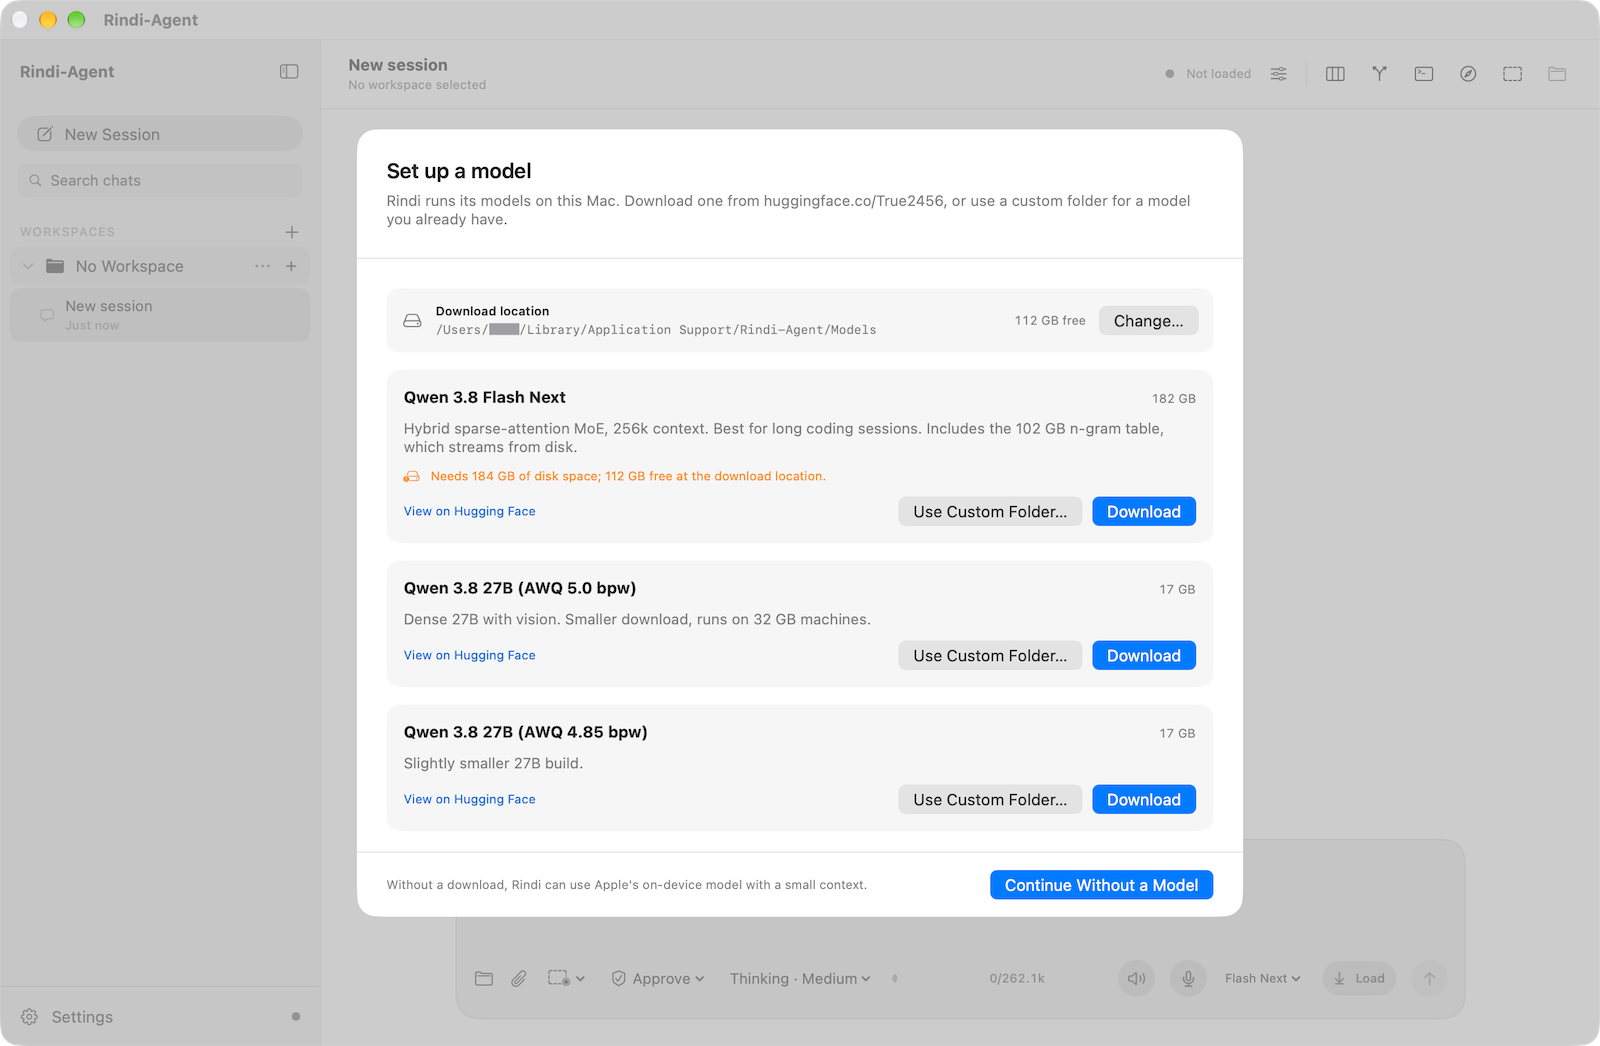
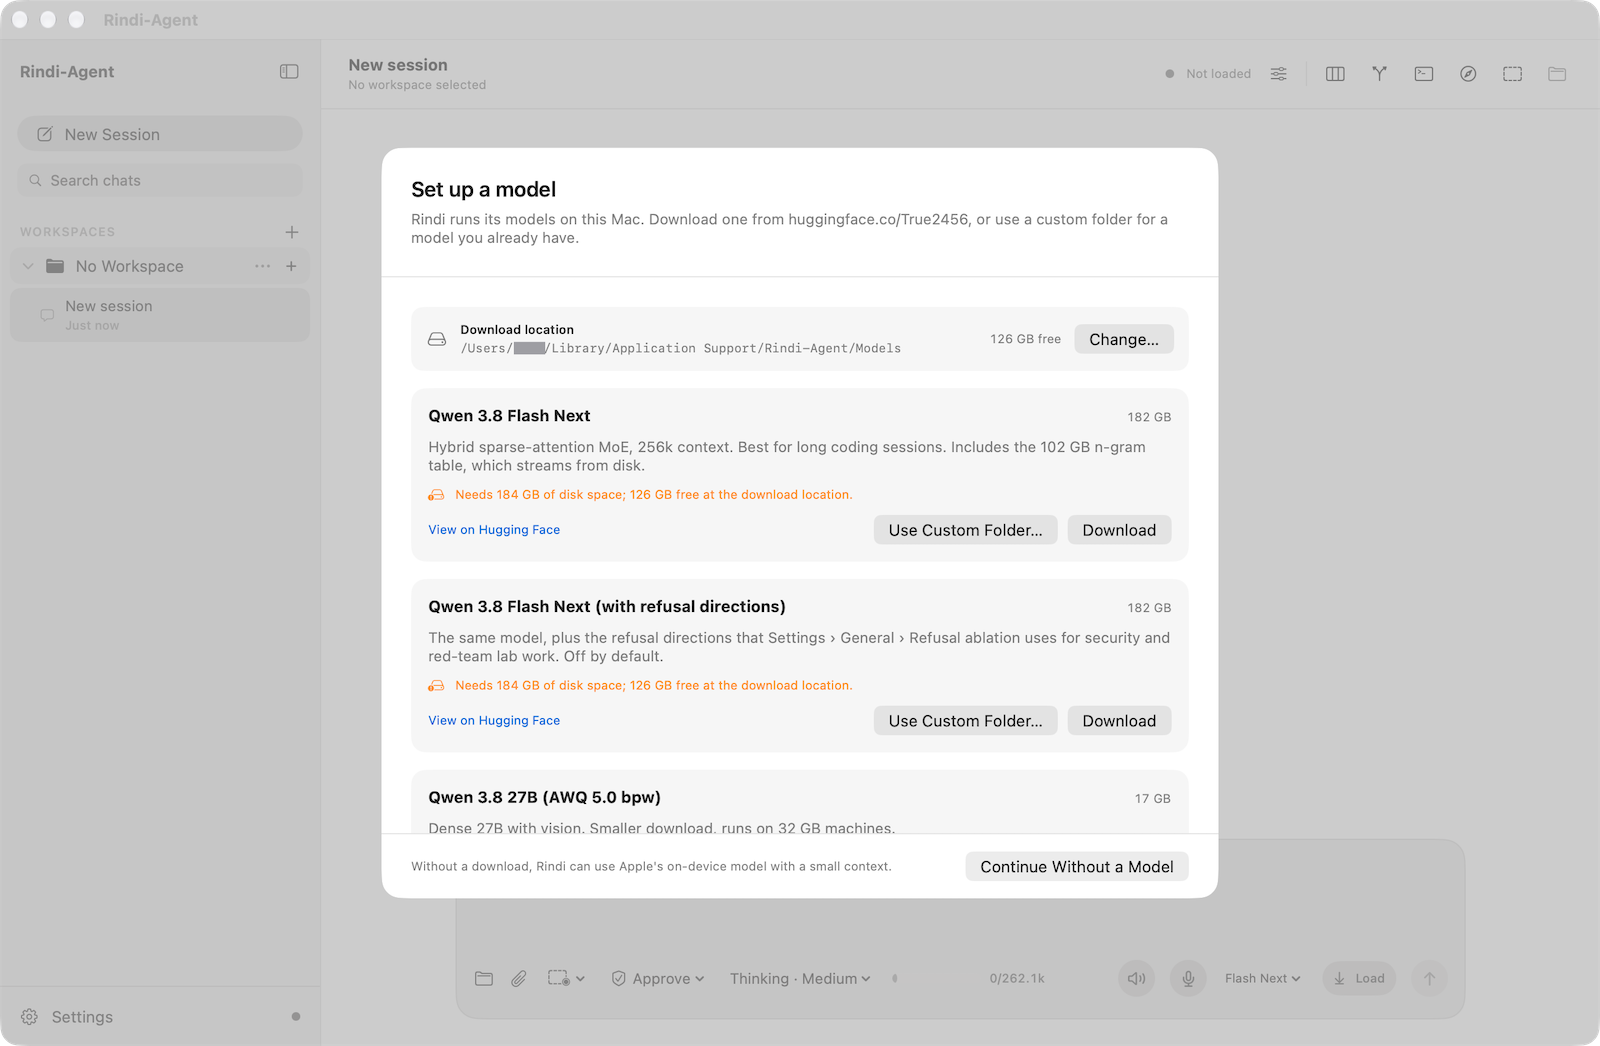
Rindi-Agent 0.9.1: update feed, benchmarks, release notes, and the wiki generator
appcast.xml is the Sparkle feed that 0.9.1 and later check. BENCHMARKS.md
reports Flash Next speed over a real 40-turn session to 180k tokens, with the
per-turn data in benchmarks/. scripts/build-wiki.py builds the wiki from the
user guide, BENCHMARKS.md and CHANGELOG.md.

diff --git a/scripts/build-wiki.py b/scripts/build-wiki.py
@@ -1,0 +1,103 @@
+#!/usr/bin/env python3
+"""Builds the GitHub wiki from the files in this repository.
+
+docs/USER-GUIDE.md stays the single source: each "## N. Title" section becomes
+a wiki page, and BENCHMARKS.md and CHANGELOG.md become pages of their own.
+Image paths and links between sections are rewritten for the wiki.
+
+    scripts/build-wiki.py <wiki checkout>
+
+then commit and push the wiki checkout.
+"""
+import re
+import sys
+from pathlib import Path
+
+REPO = "True2456/Rindi-Agent-releases"
+RAW = f"https://raw.githubusercontent.com/{REPO}/main"
+BLOB = f"https://github.com/{REPO}/blob/main"
+root = Path(__file__).resolve().parent.parent
+out = Path(sys.argv[1])
+
+
+def anchor(heading: str) -> str:
+    """GitHub's heading anchor: lowercase, punctuation dropped, spaces to hyphens."""
+    text = re.sub(r"[^\w\- ]", "", heading.strip().lower())
+    return text.replace(" ", "-")
+
+
+def page_name(title: str) -> str:
+    return re.sub(r"[^\w]+", "-", title).strip("-")
+
+
+guide = (root / "docs/USER-GUIDE.md").read_text()
+intro, *sections = re.split(r"(?m)^## (?=\d+\. )", guide)
+
+pages = []          # (file name, title, body)
+anchors = {         # guide anchor -> wiki link target
+    "reporting-problems": f"https://github.com/{REPO}/issues",  # a README heading
+}
+for section in sections:
+    heading, body = section.split("\n", 1)
+    title = re.sub(r"^\d+\.\s*", "", heading).strip()
+    name = page_name(title)
+    anchors[anchor(heading)] = name
+    for sub in re.findall(r"(?m)^#{3,4} (.+)$", body):
+        anchors[anchor(sub)] = f"{name}#{anchor(sub)}"
+    body = re.sub(r"(?m)^---\s*$", "", body).strip()
+    body = re.sub(r"(?m)^###", "##", body)
+    pages.append((name, title, body))
+
+
+def rewrite(text: str) -> str:
+    text = re.sub(r"\]\((?:docs/)?images/", f"]({RAW}/docs/images/", text)
+    text = re.sub(r"\]\(#([\w\-]+)\)", lambda m: f"]({anchors.get(m[1], '#' + m[1])})", text)
+    text = re.sub(r"\]\((?:docs/)?USER-GUIDE\.md#([\w\-]+)\)", lambda m: f"]({anchors.get(m[1], 'Home')})", text)
+    text = re.sub(r"\]\((?:docs/)?USER-GUIDE\.md\)", "](Home)", text)
+    text = text.replace("](BENCHMARKS.md)", "](Benchmarks)").replace("](CHANGELOG.md)", "](Release-notes)")
+    text = re.sub(r"\]\((benchmarks/[^)]+)\)", lambda m: f"]({BLOB}/{m[1]})", text)
+    return text
+
+
+out.mkdir(parents=True, exist_ok=True)
+for old in out.glob("*.md"):
+    old.unlink()
+
+for name, title, body in pages:
+    (out / f"{name}.md").write_text(rewrite(body) + "\n")
+
+for source, name in (("BENCHMARKS.md", "Benchmarks"), ("CHANGELOG.md", "Release-notes")):
+    text = (root / source).read_text()
+    text = re.sub(r"\A# .+\n+", "", text)          # the wiki shows the page name as its title
+    (out / f"{name}.md").write_text(rewrite(text))
+
+readme = (root / "README.md").read_text()
+summary = readme.split("\n## ", 1)[0]
+summary = re.sub(r"\A# .+\n+", "", summary)
+contents = "\n".join(f"{i}. [{title}]({name})" for i, (name, title, _) in enumerate(pages, 1))
+(out / "Home.md").write_text(rewrite(summary).strip() + f"""
+
+**[Download the latest version](https://github.com/{REPO}/releases)** · [Benchmarks](Benchmarks) · [Release notes](Release-notes) · [Report a problem](https://github.com/{REPO}/issues)
+
+## User guide
+
+{contents}
+""")
+
+sidebar = "\n".join(f"- [{title}]({name})" for name, title, _ in pages)
+(out / "_Sidebar.md").write_text(f"""**[Home](Home)**
+
+**User guide**
+
+{sidebar}
+
+**More**
+
+- [Benchmarks](Benchmarks)
+- [Release notes](Release-notes)
+- [Downloads](https://github.com/{REPO}/releases)
+""")
+(out / "_Footer.md").write_text(
+    f"Generated from [docs/USER-GUIDE.md]({BLOB}/docs/USER-GUIDE.md) by `scripts/build-wiki.py`. "
+    "Edit the files in the repository, not these pages.\n")
+print(f"{len(pages) + 3} pages written to {out}")

diff --git a/docs/USER-GUIDE.md b/docs/USER-GUIDE.md
@@ -1,6 +1,6 @@
 # Rindi-Agent User Guide
 
-This guide covers Rindi-Agent 0.9.0 beta. Every screenshot comes from a real session on a small example project, `todo-cli`.
+This guide covers Rindi-Agent 0.9.1 beta. Every screenshot comes from a real session on a small example project, `todo-cli`.
 
 - [1. Install and set up a model](#1-install-and-set-up-a-model)
 - [2. Workspaces and sessions](#2-workspaces-and-sessions)
@@ -13,6 +13,7 @@ This guide covers Rindi-Agent 0.9.0 beta. Every screenshot comes from a real ses
 - [9. Keyboard shortcuts and slash commands](#9-keyboard-shortcuts-and-slash-commands)
 - [10. Where your data lives](#10-where-your-data-lives)
 - [11. Troubleshooting](#11-troubleshooting)
+- [12. Updating](#12-updating)
 
 ---
 
@@ -20,7 +21,7 @@ This guide covers Rindi-Agent 0.9.0 beta. Every screenshot comes from a real ses
 
 ### Install the app
 
-1. Download `Rindi-Agent-0.9.0.dmg` from the [releases page](https://github.com/True2456/Rindi-Agent-releases/releases).
+1. Download `Rindi-Agent-0.9.1.dmg` from the [releases page](https://github.com/True2456/Rindi-Agent-releases/releases).
 2. Open the disk image and drag **Rindi-Agent** onto the **Applications** shortcut.
 3. Eject the disk image and open Rindi-Agent from Applications.
 
@@ -30,16 +31,17 @@ Rindi-Agent is signed and notarized by Apple. The first time you open it, macOS 
 
 On first launch, **Set up a model** opens.
 
-![The Set up a model window, listing Qwen 3.8 Flash Next and two Qwen 3.8 27B builds with Download and Use Custom Folder buttons](images/01-model-setup.png)
+![The Set up a model window, listing Qwen 3.8 Flash Next, Flash Next with refusal directions, and the 27B builds below, each with Download and Use Custom Folder buttons](images/01-model-setup.png)
 
 | Model | Download | Unified memory | Choose it when |
 | --- | --- | --- | --- |
 | Qwen 3.8 Flash Next | 182 GB | 128 GB | You have 128 GB or more and want long sessions (up to 256k tokens) |
 | Qwen 3.8 27B (AWQ 5.0 bpw) | 17 GB | 32 GB | You have 32–96 GB, or want images and video in prompts |
 | Qwen 3.8 27B (AWQ 4.85 bpw) | 17 GB | 32 GB | You want a slightly smaller 27B |
+| Qwen 3.8 Flash Next (with refusal directions) | 182 GB | 128 GB | You want the optional [Refusal ablation](#refusal-ablation) setting. Same weights as Flash Next |
 
 - **Download** fetches the model from Hugging Face into the **Download location** shown at the top. Use **Change…** to put models on another drive. A download resumes after an interruption, every file is checked against its published checksum, and the model only counts as installed once the whole download is complete.
-- The window checks free space first. In the screenshot, the Mac has 112 GB free, so Flash Next (which needs 184 GB) shows a warning.
+- The window checks free space first. In the screenshot, the Mac has 126 GB free, so both Flash Next downloads (which need 184 GB) show a warning. Scroll down for the 27B models.
 - **Use Custom Folder…** points Rindi-Agent at a copy of the model you already have.
 - **Continue Without a Model** uses Apple's on-device model, which is good for short questions but has a small context.
 
@@ -226,7 +228,7 @@ Open **Settings** with ⌘, or the button at the bottom of the sidebar. Use the 
 
 | Page | What's there |
 | --- | --- |
-| **General** | Default thinking effort, showing reasoning, background notifications, appearance, and how many worker agents run in parallel |
+| **General** | Default thinking effort, showing reasoning, background notifications, [refusal ablation](#refusal-ablation), appearance, and how many worker agents run in parallel |
 | **Models** | Each model's folder, context length, maximum output, and speed options; **Model Setup…** |
 | **Performance** | Automatic compaction of long chats, how many recent conversations stay in memory, the SSD conversation cache, and the GPU buffer pool |
 | **Instructions** | Your global instructions file and installed skills |
@@ -234,11 +236,21 @@ Open **Settings** with ⌘, or the button at the bottom of the sidebar. Use the 
 | **Voice** | Reading replies aloud: voice, rate and volume |
 | **MCP Servers** | Model Context Protocol servers |
 | **Logs** | The runtime log, with **Copy**, **Show Log File** and **Clear** |
-| **About** | Version, memory, data folder, runtime log, and **Reset…** |
+| **About** | Version, memory, [updates](#12-updating), data folder, runtime log, and **Reset…** |
 
 ![Settings › Models, showing the folder, context length and options for the 27B model](images/06-settings-models.png)
 
 **About › Reset…** returns every setting to its default. Models, chats and workspaces are kept.
+
+### Refusal ablation
+
+**Settings › General › Refusal ablation** loosens the model's refusals, for security and red-team lab work where the stock model declines legitimate requests. It works only with **Qwen 3.8 Flash Next (with refusal directions)** from Model Setup. With the other models the slider has no effect.
+
+- At **0** (Off, the default), the model behaves exactly like the stock one.
+- Around **1–2**, over-eager refusals are loosened.
+- Higher values remove refusals broadly, and replies become less coherent.
+
+Nothing is changed in the model files. The setting applies while the model runs, and you can change it or turn it off at any time. Your agent mode and approvals work the same at every setting.
 
 ---
 
@@ -302,11 +314,12 @@ MCP tools are offered in the main chat (not to worker agents) and follow the sam
 | `~/Library/Caches/Rindi-Agent/PromptCache` | Saved conversation caches (size set in Settings › Performance) |
 | `~/Library/Logs/Rindi-Agent/runtime.log` | Runtime log |
 | `~/.rindi` | Global instructions and skills |
+| `~/Library/Caches/com.rindi.agent` | Downloaded updates waiting to be installed |
 
 ### Uninstall
 
 1. Quit Rindi-Agent and drag it from Applications to the Trash.
-2. To remove your data as well, delete the four locations above. The first one includes downloaded models, which can be very large.
+2. To remove your data as well, delete the locations above. The first one includes downloaded models, which can be very large.
 3. To remove its macOS permissions, including those of the Computer Use helper, run:
 
    ```bash
@@ -330,3 +343,21 @@ MCP tools are offered in the main chat (not to worker agents) and follow the sam
 **A command fails with a sandbox error.** By default, commands can write only inside the workspace. If the task really needs more, change **Workspace sandbox** in **Settings › Tools & Permissions**.
 
 **Something else went wrong.** Open an [issue](https://github.com/True2456/Rindi-Agent-releases/issues) and include the runtime log (**Settings › About › Runtime log › Reveal**). Check the log for anything private first: it can include file names from your projects.
+
+---
+
+## 12. Updating
+
+Rindi-Agent 0.9.1 and later keep themselves up to date. Once a day, the app checks this project's update feed on GitHub. When a new version is out, a window shows what changed:
+
+- **Install Update** downloads it, checks that it's signed by the developer, and offers **Install and Relaunch**.
+- **Remind Me Later** asks again at the next check. **Skip This Version** waits for the one after.
+- **Automatically download and install updates in the future** installs updates without asking.
+
+To check now, choose **Rindi-Agent › Check for Updates…**, or use the button in **Settings › About**. You can also turn automatic checks off there:
+
+![The Updates section of Settings › About, with Check for updates automatically turned on and a Check for Updates button](images/15-settings-updates.png)
+
+An update keeps your settings, chats, models and macOS permissions. If a reply is still running when you choose **Install and Relaunch**, Rindi-Agent asks before stopping it.
+
+**Coming from 0.9.0?** That version can't update itself. Download 0.9.1 once from the [releases page](https://github.com/True2456/Rindi-Agent-releases/releases) and replace the app in Applications.

diff --git a/README.md b/README.md
@@ -8,15 +8,15 @@ Rindi-Agent is a coding agent for the Mac that runs Qwen 3.8 models entirely on 
 
 ## Download
 
-**[Download Rindi-Agent 0.9.0 beta](https://github.com/True2456/Rindi-Agent-releases/releases/tag/v0.9.0-beta)**: a 54 MB disk image, signed and notarized by Apple. The model is downloaded separately the first time you open the app.
+**[Download Rindi-Agent 0.9.1 beta](https://github.com/True2456/Rindi-Agent-releases/releases/tag/v0.9.1-beta)**: a 55 MB disk image, signed and notarized by Apple. The model is downloaded separately the first time you open the app. Starting with 0.9.1, Rindi-Agent updates itself.
 
 To check the download, put the `.dmg` and its `.sha256` file in the same folder and run:
 
 ```bash
-shasum -a 256 -c Rindi-Agent-0.9.0.dmg.sha256
+shasum -a 256 -c Rindi-Agent-0.9.1.dmg.sha256
 ```
 
-It prints `Rindi-Agent-0.9.0.dmg: OK` when the file is intact.
+It prints `Rindi-Agent-0.9.1.dmg: OK` when the file is intact.
 
 ## Requirements
 
@@ -29,16 +29,18 @@ It prints `Rindi-Agent-0.9.0.dmg: OK` when the file is intact.
   | Qwen 3.8 27B (AWQ 5.0 bpw) | 17 GB | 32 GB | Smaller Macs; text, images and video |
   | Qwen 3.8 27B (AWQ 4.85 bpw) | 17 GB | 32 GB | A slightly smaller 27B build |
 
+  Flash Next also comes in a version **with refusal directions**: the same weights, plus the file that the optional *Refusal ablation* setting needs (see the [User Guide](docs/USER-GUIDE.md#refusal-ablation)).
+
 Without a downloaded model, Rindi-Agent can use Apple's on-device model for short conversations.
 
 ## Install
 
-1. Open `Rindi-Agent-0.9.0.dmg` and drag **Rindi-Agent** onto **Applications**.
+1. Open `Rindi-Agent-0.9.1.dmg` and drag **Rindi-Agent** onto **Applications**.
 2. Open Rindi-Agent from your Applications folder. macOS asks once whether to open an app downloaded from the internet; choose **Open**.
 3. In **Set up a model**, choose **Download** on the model that fits your Mac, or **Use Custom Folder…** if you already have it.
 4. Choose **File › Open Workspace** (⌘O), pick a project folder, and describe what you want done.
 
-The [User Guide](docs/USER-GUIDE.md) walks through everything else, with screenshots: sessions, approvals, the side panels, Computer Use, settings and troubleshooting.
+The [User Guide](docs/USER-GUIDE.md) walks through everything else, with screenshots: sessions, approvals, the side panels, Computer Use, settings and troubleshooting. It's also on the [wiki](https://github.com/True2456/Rindi-Agent-releases/wiki), one page per topic.
 
 ## What it can do
 
@@ -48,19 +50,26 @@ The [User Guide](docs/USER-GUIDE.md) walks through everything else, with screens
 - **Extend it.** Global instructions, reusable skills, and Model Context Protocol (MCP) servers.
 - **Talk to it.** On-device voice input, and spoken replies with your installed voices.
 
+## Speed
+
+On a MacBook Pro with an M5 Max and 128 GB, Qwen 3.8 Flash Next processes prompts at over 1,000 tokens per second all the way to 180,000 tokens of context, and replies at a median 66–83 tokens per second. These numbers come from a real 40-turn agent session; see [Benchmarks](BENCHMARKS.md) for the method and per-turn data.
+
 ## Privacy
 
 Rindi-Agent uses the network only to:
 
 - download models from huggingface.co,
 - search the web and read pages, when the agent uses its web tools,
-- reach MCP servers you add yourself.
+- reach MCP servers you add yourself,
+- check for updates once a day on this page's update feed (you can turn this off in **Settings › About**).
 
 Everything else, including inference, happens on your Mac.
 
 ## Updating
 
-There is no automatic update in this beta. To update, download the new disk image and replace the app in Applications. Your settings, chats, models and macOS permissions are kept.
+Rindi-Agent 0.9.1 and later check for updates once a day. When one is available, a window shows what's new, and **Install Update** downloads it, checks its signature and relaunches into the new version. To check yourself, choose **Rindi-Agent › Check for Updates…**. Your settings, chats, models and macOS permissions are kept.
+
+**If you have 0.9.0**, which can't update itself, download 0.9.1 once from this page and replace the app in Applications.
 
 ## Reporting problems
 

diff --git a/BENCHMARKS.md b/BENCHMARKS.md
@@ -1,0 +1,54 @@
+# Benchmarks
+
+Measured speed of Rindi-Agent during a real agent session, not a synthetic prompt. All inference runs on the Mac.
+
+## Qwen 3.8 Flash Next on an M5 Max (128 GB)
+
+**Prompt processing stays above 1,000 tokens per second all the way to 180,000 tokens of context, and replies come out at a median 66–83 tokens per second up to 180k.**
+
+| Context | Turns | Prompt processing (tok/s) | Decode, median (tok/s) |
+| --- | ---: | ---: | ---: |
+| 0–30k | 10 | 1,120 | 66.3 |
+| 30–60k | 8 | 1,269 | 82.8 |
+| 60–90k | 2 | 1,404 | 71.8 |
+| 90–120k | 8 | 1,211 | 77.6 |
+| 120–150k | 6 | 1,072 | 77.4 |
+| 150–180k | 5 | 1,089 | 73.9 |
+| 180–210k | 1 | 1,085 | 49.0 (one turn) |
+
+What that means in practice, from the same run:
+
+| At context | New tokens in the turn | Time to first token |
+| ---: | ---: | ---: |
+| 89k | 27,133 | 19.5 s |
+| 153k | 17,183 | 15.4 s |
+| 170k | 15,303 | 14.0 s |
+| 136k | 9,494 | 7.9 s |
+
+The whole session ran 40 turns, processed 182,886 new prompt tokens and generated 11,438 tokens in 410 seconds. Per-turn data: [benchmarks/2026-10-16-flash-next-long-context.csv](benchmarks/2026-10-16-flash-next-long-context.csv).
+
+### The test
+
+The agent is asked to read every Swift file of a ~180k-token inference engine codebase in full, one file per tool call, and then write an architecture overview. Every turn adds a file to the conversation, so the context grows from 8k to 180k tokens. The work is the same as a real coding session: many short tool-call turns on top of a long, cached conversation, with an occasional large file.
+
+| | |
+| --- | --- |
+| Machine | MacBook Pro, Apple M5 Max (18-core CPU), 128 GB, macOS 27.2 |
+| App | Rindi-Agent 0.9.1 engine (Rindi-NativeMLX `5e26c81`), default settings |
+| Model | [Qwen 3.8 Flash Next MLX 4-bit](https://huggingface.co/True2456/Qwen3.8-Flash-Next-MLX-4bit) |
+| Date | 16 October 2026 |
+
+### How to read the numbers
+
+- **Prompt processing** is the new tokens in each turn divided by the time to the first reply token, totalled over the turns in the context range. The earlier part of the conversation comes from Rindi-Agent's cache and isn't counted again; that's why each turn only processes what it adds.
+- **Decode** is the speed of the reply itself, including speculative decoding with the model's MTP drafter. Each range shows the median turn, because most turns are short tool calls whose speed depends on how predictable the next tokens are.
+- **The first turn after loading is slower.** It processed 7,937 tokens at 759 tok/s while the weights were still being read into memory. That turn alone lowers the 0–30k figure; the other turns in that range with over 1,000 new tokens ran at 1,340–1,580 tok/s. Very short turns are slower per token because of fixed per-turn overhead.
+- **Other apps matter.** This run had a music app open in the background. A second run on the same build, with two audio apps and a busy browser tab, was 17–31% slower throughout. Expect around 10% difference between runs even on a quiet Mac.
+
+### Your own numbers
+
+Each reply in Rindi-Agent ends with a line like *1.8 s to first token · 8k cached · Decode 55.5 tok/s · 64% drafts*. **Settings › Logs** shows the same figures for every turn.
+
+## Qwen 3.8 27B
+
+Not yet measured for the published builds. This page will be updated.

diff --git a/CHANGELOG.md b/CHANGELOG.md
@@ -1,0 +1,19 @@
+# Release notes
+
+## 0.9.1 beta (16 October 2026)
+
+**From this version on, Rindi-Agent updates itself.** If you have 0.9.0, download 0.9.1 once and replace the app in Applications.
+
+- **In-app updates.** Rindi-Agent checks for new versions once a day, and **Rindi-Agent › Check for Updates…** checks right away. Updates are signed and install with one click. **Settings › About** turns automatic checks on or off.
+- **Flash Next with refusal directions** in Model Setup: the same weights, plus the file that the optional **Settings › General › Refusal ablation** setting needs, for security and red-team lab work. The setting is off by default.
+- **Fix:** **Reveal Rindi Computer Use** in the Computer Use window now shows the helper inside the app, for adding it to Screen Recording.
+- **Fix:** the `.sha256` checksum file contains only the file name, so `shasum -c` works after downloading.
+
+## 0.9.0 beta (16 October 2026)
+
+The first public beta.
+
+- A coding agent that reads, edits and tests code in your project, with every change and command waiting for your approval by default
+- Computer Use: the agent can read and operate native Mac apps through Accessibility, in the background, while you watch in a picture-in-picture window
+- Source control, files, terminal, a built-in browser, and a task board with worker agents
+- MCP servers, global instructions and skills, voice input and spoken replies
